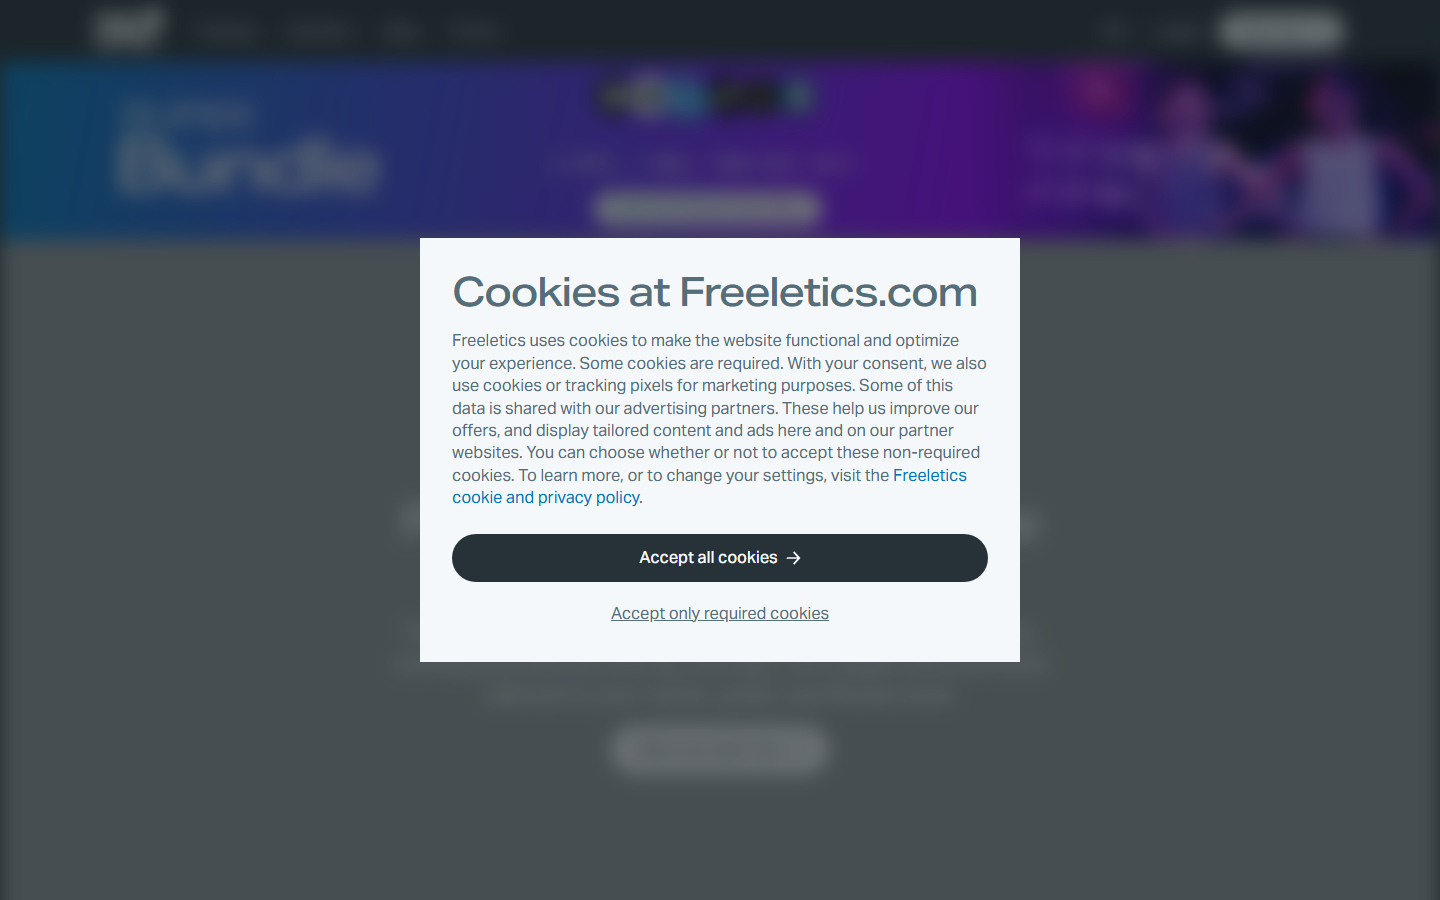
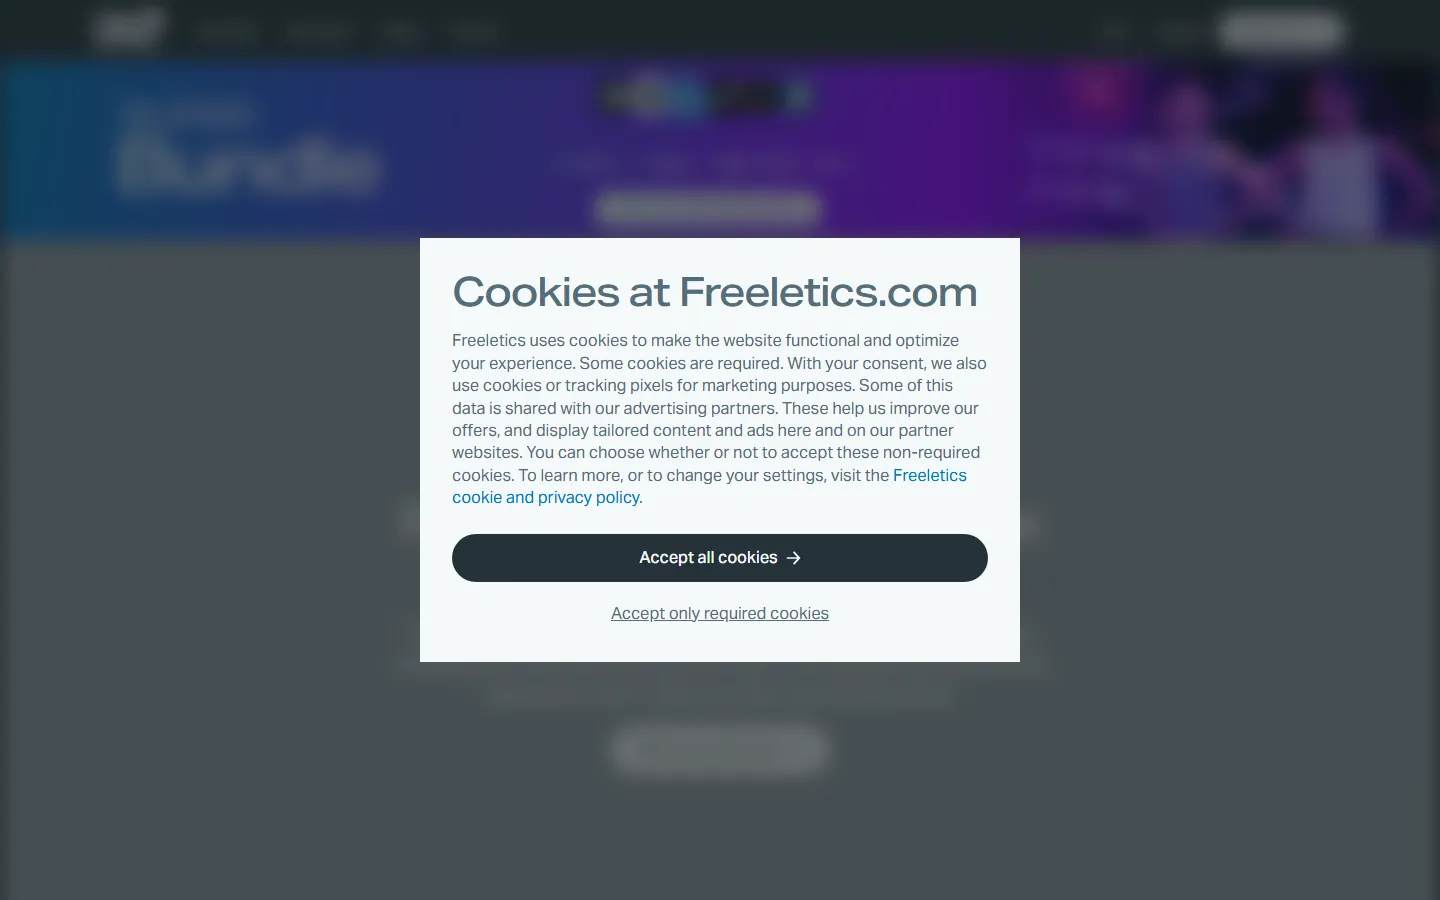
perf(r66): compress 2 oversized webp (283/201->39/35KB); schema count audit complete (10 types, 841 pages >=3)

diff --git a/iteration_center/window_logs/architect_2026-10-27.md b/iteration_center/window_logs/architect_2026-10-27.md
@@ -1,0 +1,37 @@
+# 架构师执行日志 2026-10-27（r66）
+
+## 待办处理：6 条架构师 pending → 2 completed + 3 blocker 保持 + 1 复查未到期
+
+### completed
+1. **SEO-BIG-IMG-P2-20261025**：planfit-home.webp 283→39KB、freeletics-home.webp 201→35KB（PIL quality=78 method=6，1440x900 尺寸不变，均<200KB）。public/ 已改，build 后 out/ 验证 39.1/35.7KB。commit 待部署。
+2. **P2-SCHEMA-TYPE-COUNT-20261026**：全站 1310 页 JSON-LD 全量盘点（含多块 ld+json）：
+   - 10 类：Organization(1309)/WebSite(1309)/FAQPage(838)/BreadcrumbList(813)/Review(795)/SoftwareApplication(533)/Article(281)/CollectionPage(20)/WebPage(1)/ItemList(1)
+   - **841 页 ≥3 类 schema**（核心内容页全覆盖），"≥3类→AI引用+13%"目标达成
+   - 唯一无 JSON-LD 页：/ai-tools-guide-2026.html（根级静态页，低优）
+   - 信息页（404/policy/authors/category）Organization+WebSite 2 类属正常
+
+### blocker 保持（复验）
+3. **P0-BING-WMT-CHATGPT-ENTRY-20261026**：api_keys.json 复验仍无 bing key（第 2 次），无法注册验证/提交 sitemap。需指挥官提供 key。
+4. **P1-GA4-SG-BOT-CLEAN-20261021**：已证死路（firewall rules GET 410、zone rulesets PUT 405，唯一通道 CF Dashboard 人工建 WAF Custom rules），r58 后无新通道。
+5. **P1-CLAUDE-SEO-INSTALL-20261017**：缺 Anthropic key 阻塞。
+
+### 复查未到期
+6. **P1-INDEX-41-REMAINING-RESULTS-20261024**：r65b 已提交 15 页，10-30 复查收录未到期。
+
+## GEO 技术检查（每轮必做）
+- **real_geo_aeo_audit.py 第二轮实跑**（第一轮 JSON 被并发覆盖+网络瞬时误报，弃用）：
+  - robots.txt 线上 3074B → **10 accessible / 1 blocked（CCBot Disallow:/ 属有意配置）**，与 r65 一致
+  - llms.txt 29632B、llms-full.txt 657KB/9866 行（tools/blog/categories/alternatives 全含）
+  - AEO：/ + /tools/chatgpt + /tools/cursor = 10/10；4 页 Failed to fetch（本机直连线上间歇超时，r31 已知，非真实）
+  - GEO 结构段进程中断（网络），沿用 r65 6.4/10 基线
+  - Recommendations 7 条与既有 geo_audit 创作家待办重叠，不重复开单
+- **seo_audit_full.py**：本机 httpx ConnectTimeout 已知死路，引用 908 页归档（P1=2 已修）。
+- **Lighthouse**：本机无 Chrome 已知死路，跳过。
+
+## 门控/部署
+- npx tsc --noEmit = 0；npm run build = 0
+- commit：public/screenshots/real/webp 两图压缩 + state.json + 本日志
+- 线上验证：待 Actions Deploy 后确认图片 <200KB
+
+## 经验
+- real_geo_aeo_audit_results.json 会被并发窗口覆盖（shared-state）：结论以实跑 stdout 为准，JSON 仅参考。
